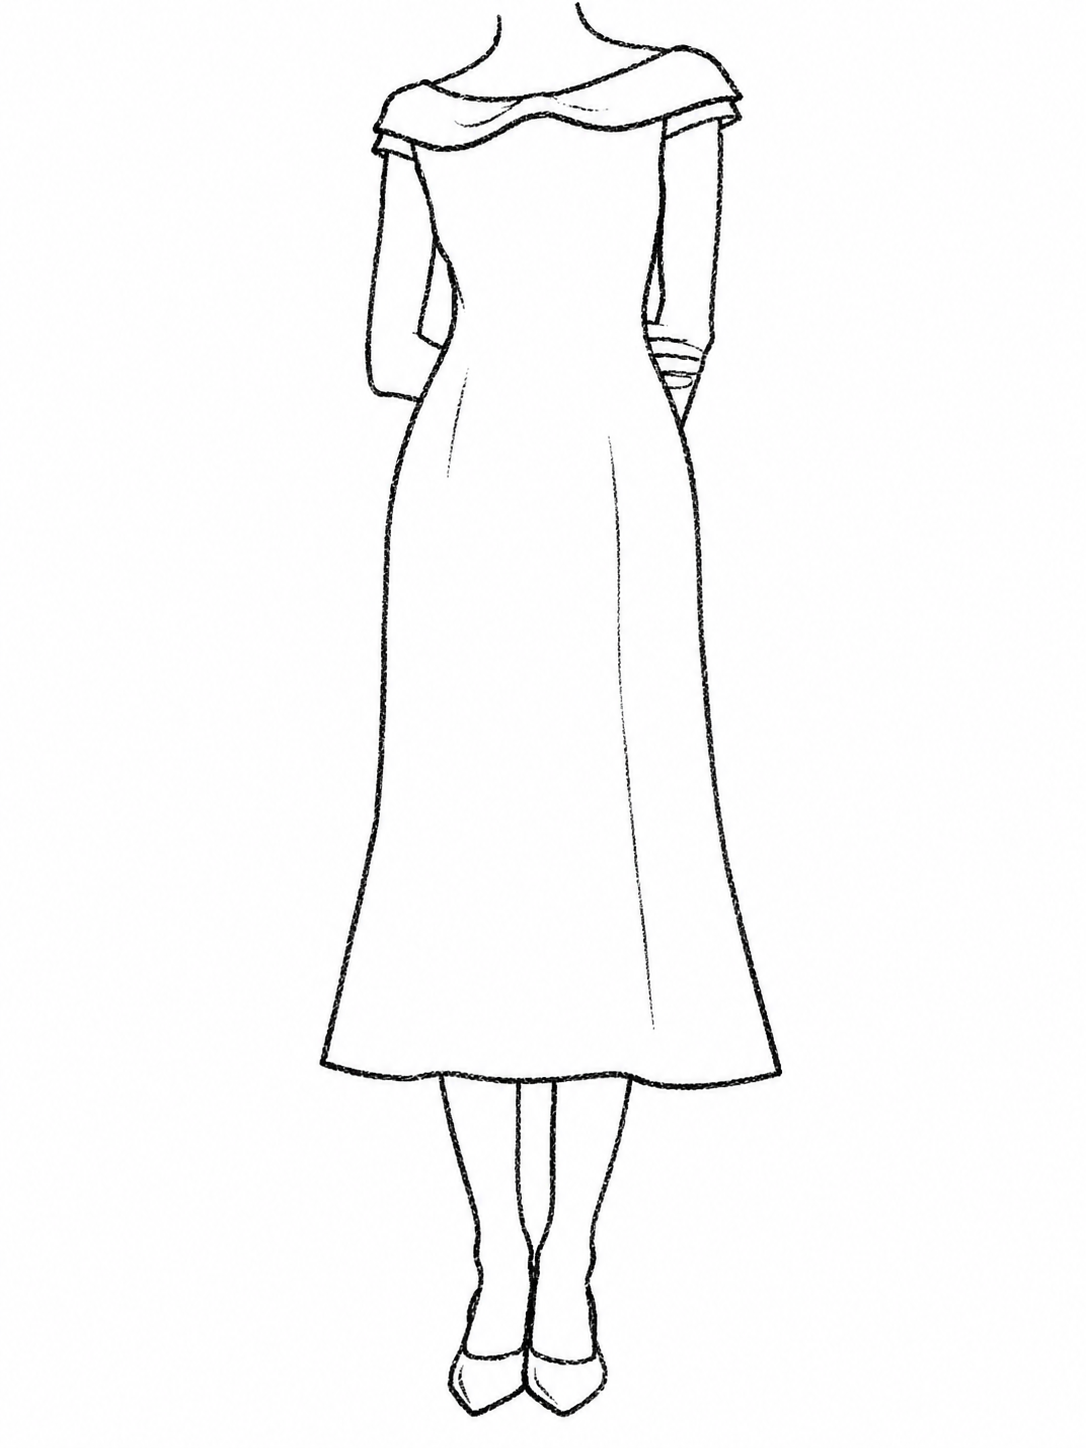
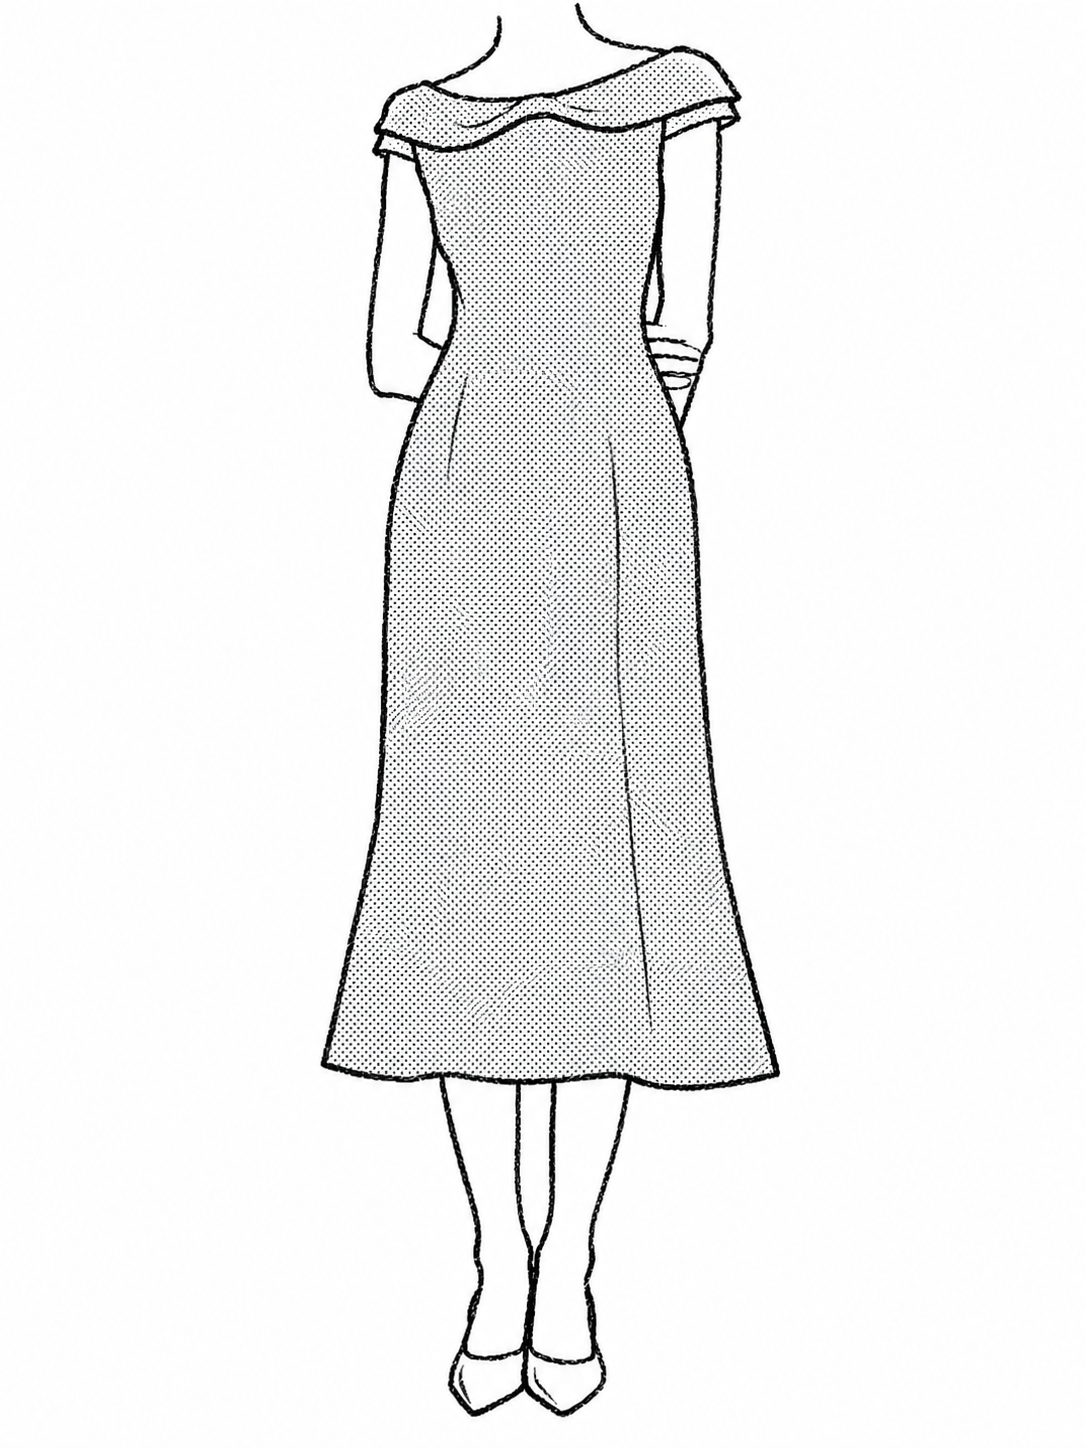
Changes to estilos, messages and fragmentos
Changes to estilos, messages and fragmentos

diff --git a/Invitacion/src/main/resources/static/css/estilos.css b/Invitacion/src/main/resources/static/css/estilos.css
@@ -66,7 +66,7 @@ html {
 }
 
 .lang-option {
-    font-family: 'Nunito', sans-serif;
+    font-family: 'Outfit', sans-serif;
     font-weight: 300;
     font-size: 0.78rem;
     letter-spacing: 0.08em;
@@ -107,7 +107,7 @@ html {
 }
 
 .navbar-pill .nav-link {
-    font-family: 'Nunito', sans-serif;
+    font-family: 'Outfit', sans-serif;
     font-weight: 300;
     font-size: 0.78rem;
     letter-spacing: 0.08em;
@@ -327,7 +327,7 @@ html {
 }
 
 .versiculo-text p {
-    font-family: 'Playwrite DE SAS', cursive;
+    font-family: 'Fraunces', serif;
     font-weight: 400;
     font-size: 1.05rem;
     letter-spacing: 0;
@@ -337,7 +337,7 @@ html {
 }
 
 .versiculo-text cite {
-    font-family: 'Nunito', sans-serif;
+    font-family: 'Outfit', sans-serif;
     font-weight: 300;
     font-size: 0.8rem;
     letter-spacing: 0.1em;
@@ -373,7 +373,7 @@ html {
 }
 
 .boda-horario h2 {
-    font-family: 'Playwrite DE SAS', cursive;
+    font-family: 'Fraunces', serif;
     font-weight: 400;
     font-size: 1.4rem;
     letter-spacing: 0;
@@ -394,7 +394,7 @@ html {
 }
 
 .waze-btn {
-    font-family: 'Nunito', sans-serif;
+    font-family: 'Outfit', sans-serif;
     font-weight: 300;
     font-size: 0.9rem;
     letter-spacing: 0.06em;
@@ -412,7 +412,7 @@ html {
 }
 
 .boda-horario p {
-    font-family: 'Nunito', sans-serif;
+    font-family: 'Outfit', sans-serif;
     font-weight: 300;
     font-size: 0.9rem;
     letter-spacing: 0.06em;
@@ -428,7 +428,7 @@ html {
 
 /* ── Nosotros section ── */
 .nosotros-section {
-    padding: 48px 20px;
+    padding: 100px 20px;
     max-width: 1100px;
     margin: 0 auto;
 }
@@ -442,7 +442,7 @@ html {
 }
 
 .nosotros-text h2 {
-    font-family: 'Playwrite DE SAS', cursive;
+    font-family: 'Fraunces', serif;
     font-weight: 400;
     font-size: 1.4rem;
     letter-spacing: 0;
@@ -451,7 +451,7 @@ html {
 }
 
 .nosotros-text p {
-    font-family: 'Nunito', sans-serif;
+    font-family: 'Outfit', sans-serif;
     font-weight: 300;
     font-size: 0.9rem;
     letter-spacing: 0.04em;
@@ -519,7 +519,7 @@ html {
     background-size: cover;
     background-position: center;
     background-repeat: no-repeat;
-    padding: 64px 32px;
+    padding: 200px 32px;
 }
 
 .vestimenta-grid {
@@ -538,7 +538,7 @@ html {
 }
 
 .vestimenta-text h2 {
-    font-family: 'Playwrite DE SAS', cursive;
+    font-family: 'Fraunces', serif;
     font-weight: 400;
     font-size: 1.4rem;
     letter-spacing: 0;
@@ -547,7 +547,7 @@ html {
 }
 
 .vestimenta-text p {
-    font-family: 'Nunito', sans-serif;
+    font-family: 'Outfit', sans-serif;
     font-weight: 300;
     font-size: 0.9rem;
     letter-spacing: 0.04em;
@@ -556,9 +556,9 @@ html {
     margin: 0 0 12px;
 }
 
-.vestimenta-prohibido {
+.vestimenta-text p.vestimenta-prohibido {
     font-style: italic;
-    opacity: 0.75;
+    font-weight: 600;
 }
 
 .vestimenta-outfits {
@@ -579,10 +579,10 @@ html {
 }
 
 .outfit-title {
-    font-family: 'Playwrite DE SAS', cursive;
+    font-family: 'Fraunces', serif;
     font-weight: 400;
     font-size: 1.40rem;
-    letter-spacing: 0.08em;
+    letter-spacing: 0.00em;
     color: #3a3230;
     margin: 0;
     text-align: center;
@@ -595,7 +595,7 @@ html {
 }
 
 .outfit-click {
-    font-family: 'Nunito', sans-serif;
+    font-family: 'Outfit', sans-serif;
     font-weight: 300;
     font-size: 0.75rem;
     letter-spacing: 0.06em;
@@ -644,7 +644,7 @@ html {
 }
 
 .regalos-text h2 {
-    font-family: 'Playwrite DE SAS', cursive;
+    font-family: 'Fraunces', serif;
     font-weight: 400;
     font-size: 1.4rem;
     letter-spacing: 0;
@@ -653,7 +653,7 @@ html {
 }
 
 .regalos-text p {
-    font-family: 'Nunito', sans-serif;
+    font-family: 'Outfit', sans-serif;
     font-weight: 300;
     font-size: 0.9rem;
     letter-spacing: 0.04em;
@@ -663,7 +663,7 @@ html {
 }
 
 .regalos-btn {
-    font-family: 'Nunito', sans-serif;
+    font-family: 'Outfit', sans-serif;
     font-weight: 300;
     font-size: 0.9rem;
     letter-spacing: 0.06em;
@@ -719,7 +719,7 @@ html {
 }
 
 .rsvp-titulo {
-    font-family: 'Playwrite DE SAS', cursive;
+    font-family: 'Fraunces', serif;
     font-weight: 400;
     font-size: 1.6rem;
     letter-spacing: 0;
@@ -728,7 +728,7 @@ html {
 }
 
 .rsvp-importante {
-    font-family: 'Nunito', sans-serif;
+    font-family: 'Outfit', sans-serif;
     font-weight: 400;
     font-size: 1.3rem;
     letter-spacing: 0.04em;
@@ -737,7 +737,7 @@ html {
 }
 
 .rsvp-descripcion {
-    font-family: 'Nunito', sans-serif;
+    font-family: 'Outfit', sans-serif;
     font-weight: 300;
     font-size: 0.9rem;
     letter-spacing: 0.04em;
@@ -747,7 +747,7 @@ html {
 }
 
 .rsvp-limite {
-    font-family: 'Nunito', sans-serif;
+    font-family: 'Outfit', sans-serif;
     font-weight: 300;
     font-size: 0.9rem;
     letter-spacing: 0.04em;
@@ -760,7 +760,7 @@ html {
 }
 
 .rsvp-btn {
-    font-family: 'Nunito', sans-serif;
+    font-family: 'Outfit', sans-serif;
     font-weight: 300;
     font-size: 0.9rem;
     letter-spacing: 0.06em;
@@ -807,7 +807,7 @@ html {
 }
 
 .footer-nav a {
-    font-family: 'Nunito', sans-serif;
+    font-family: 'Outfit', sans-serif;
     font-weight: 300;
     font-size: 0.78rem;
     letter-spacing: 0.08em;

diff --git a/Invitacion/src/main/resources/templates/general/fragmentos.html b/Invitacion/src/main/resources/templates/general/fragmentos.html
@@ -5,7 +5,7 @@
     <meta name="viewport" content="width=device-width, initial-scale=1"/>
     <link rel="preconnect" href="https://fonts.googleapis.com">
     <link rel="preconnect" href="https://fonts.gstatic.com" crossorigin>
-    <link href="https://fonts.googleapis.com/css2?family=Nunito:wght@300;400&family=Playwrite+DE+SAS:wght@100;400&display=swap" rel="stylesheet">
+    <link href="https://fonts.googleapis.com/css2?family=Fraunces:ital,opsz,wght@0,9..144,300;1,9..144,300&family=Outfit:wght@300;400&display=swap" rel="stylesheet">
     <link rel="icon" type="image/png" sizes="16x16" href="/fav/favicon-16x16.png"/>
     <link rel="icon" type="image/png" sizes="32x32" href="/fav/favicon-32x32.png"/>
     <link rel="icon" type="image/png" sizes="96x96" href="/fav/favicon-96x96.png"/>
@@ -82,6 +82,7 @@
             <h2>[[#{horario.titulo}]]</h2>
             <p>[[#{horario.finca}]]</p>
             <p>[[#{horario.locacion}]]</p>
+            <p>[[#{horario.fecha}]]</p>
             <p>[[#{horario.hora}]]</p>
             <div class="waze-row">
                 <img th:src="@{/img/images/waze.png}" alt="Waze" class="waze-icon"/>
@@ -171,6 +172,9 @@
         <div class="regalos-text">
             <h2>[[#{regalos.titulo}]]</h2>
             <p>[[#{regalos.descripcion}]]</p>
+            <p><strong>[[#{regalos.sinpe}]]</strong> [[#{regalos.sinpe.num}]]</p>
+            <p><strong>[[#{regalos.iban.crc}]]</strong> [[#{regalos.iban.crc.num}]]</p>
+            <p><strong>[[#{regalos.iban.usd}]]</strong> [[#{regalos.iban.usd.num}]]</p>
             <a href="https://wa.me/50685827555" class="regalos-btn" target="_blank" rel="noopener noreferrer">[[#{regalos.boton}]]</a>
         </div>
     </div>
@@ -182,6 +186,7 @@
         <h2 class="rsvp-titulo">[[#{rsvp.titulo}]]</h2>
         <p class="rsvp-importante">[[#{rsvp.importante}]]</p>
         <p class="rsvp-descripcion">[[#{rsvp.descripcion}]]</p>
+        <p class="rsvp-descripcion">[[#{rsvp.prohibido}]]</p>
         <p class="rsvp-limite"><span>[[#{rsvp.límite}]]</span> [[#{rsvp.fecha}]]</p>
         <a href="https://form.typeform.com/to/qqMnAotL" class="rsvp-btn" target="_blank" rel="noopener noreferrer">[[#{rsvp.form}]]</a>
     </div>
